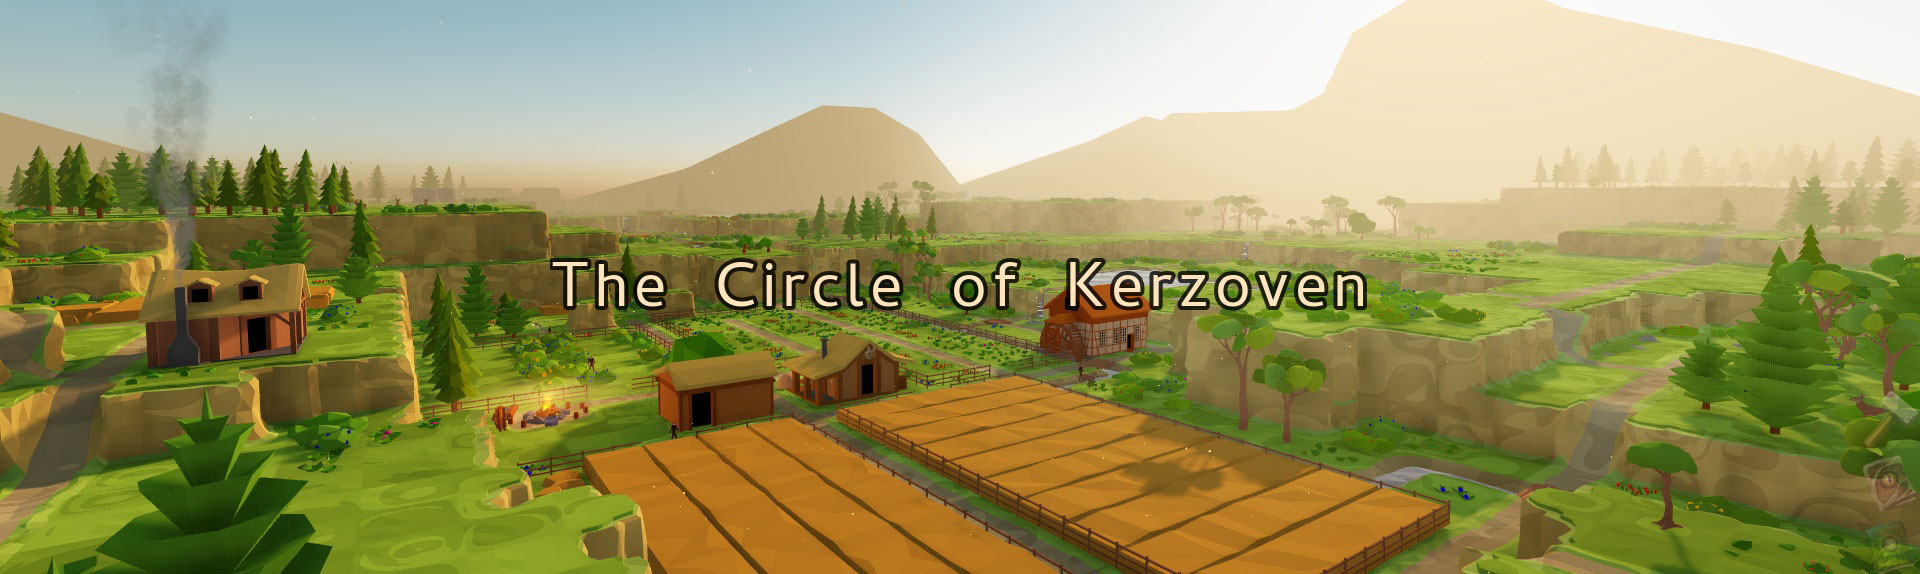
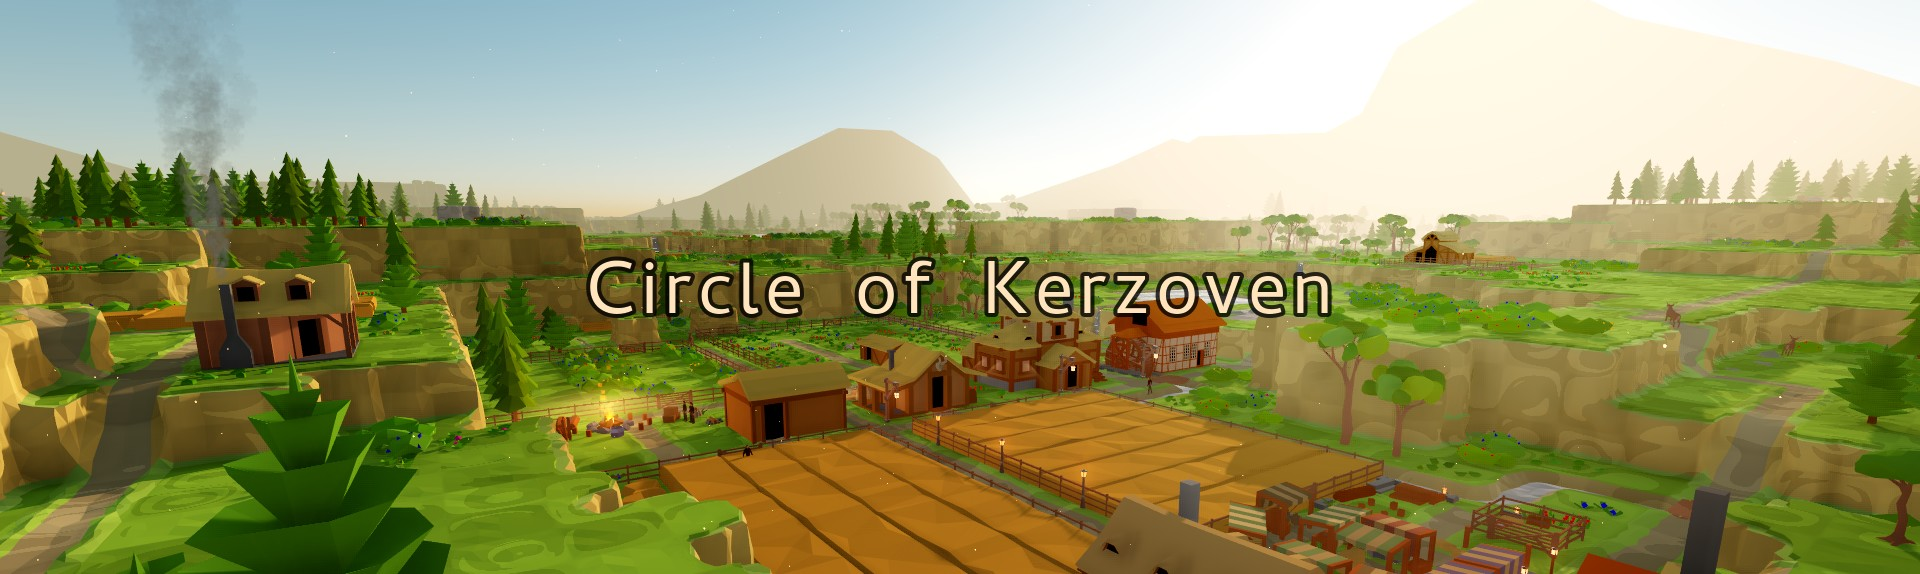
Updated title and title image without "The"

diff --git a/index.html b/index.html
@@ -2,7 +2,7 @@
 <html lang="en">
   <head>
   
-    <title>The Circle of Kerzoven</title>
+    <title>Circle of Kerzoven</title>
     <meta charset="utf-8">
     <meta name="viewport" content="width=device-width, initial-scale=1">
     <link rel="stylesheet" href="css/bootstrap.min.css">
@@ -12,7 +12,7 @@
 <body>
 
 <nav class="navbar navbar-expand-md">
-  <a class="navbar-brand" href="#">The Circle of Kerzoven</a>
+  <a class="navbar-brand" href="#">Circle of Kerzoven</a>
   <button class="navbar-toggler navbar-dark" type="button" data-toggle="collapse" data-target="#main-navigation">
     <span class="navbar-toggler-icon"></span>
   </button>
@@ -30,7 +30,7 @@
 
 <div id="full-width-image-container" class="container-fluid">
   <div class="row">
-    <img src="images/TitleA.jpg" alt="The Circle of Kerzoven">
+    <img src="images/TitleA.jpg" alt="Circle of Kerzoven">
   </div>
 </div>
 
@@ -39,7 +39,7 @@
     <div class="col-xs-12">
       <h1 class="page-header">A city building strategy game with unique depth</h1>
       <p>In a <b>profoundly simulated world</b>, every action has a reaction. Every animal and every plant tries to survive while you lead your entrusted creatures to a bright future. Take care of your <b>villagers</b>, resources, production lines and the interaction with a complex environment. How much will you intervene in the course of nature? You decide.</p>
-      <a href="https://store.steampowered.com/app/1733110/The_Circle_of_Kerzoven/" target="_blank" class="btn btn-social-steam">
+      <a href="https://store.steampowered.com/app/1733110" target="_blank" class="btn btn-social-steam">
         <img src="images/Steam_Logo_I.png" alt="Steam logo" class="img-responsive">
       </a>
       <a href="https://discord.gg/XvPb6sKYpm" target="_blank" class="btn btn-social-discord">
@@ -101,11 +101,11 @@
       <div class="col-lg-8 col-md-8 col-sm-12">
       <h6 class="text-uppercase font-weight-bold">Additional Information</h6>
       <p>The planned target platforms are desktop Windows and Linux with translations in English and German. More support might be added later.</p>
-      <p>The Circle of Kerzoven is developed by Marco Burri with the Godot Engine. He started developing games over ten years ago besides his career as an automation technician and later software engineer. One of his most famous game is Legend of Ahssûn, where he was working in the core team as a generalist and is still supporting the project today.</p>
+      <p>Circle of Kerzoven is developed by Marco Burri with the Godot Engine. He started developing games over ten years ago besides his career as an automation technician and later software engineer. One of his most famous game is Legend of Ahssûn, where he was working in the core team as a generalist and is still supporting the project today.</p>
     </div>
     <div class="col-lg-4 col-md-4 col-sm-12">
       <h6 class="text-uppercase font-weight-bold">Links</h6>
-      <a href="https://store.steampowered.com/app/1733110/The_Circle_of_Kerzoven/" target="_blank">Steam</a>
+      <a href="https://store.steampowered.com/app/1733110" target="_blank">Steam</a>
       <br/><a href="https://discord.gg/XvPb6sKYpm" target="_blank">Discord</a>
       <br/><a href="https://www.reddit.com/user/Kersoph" target="_blank">Reddit</a>
       <br/><a href="https://twitter.com/kerzoven" target="_blank">Twitter</a>
